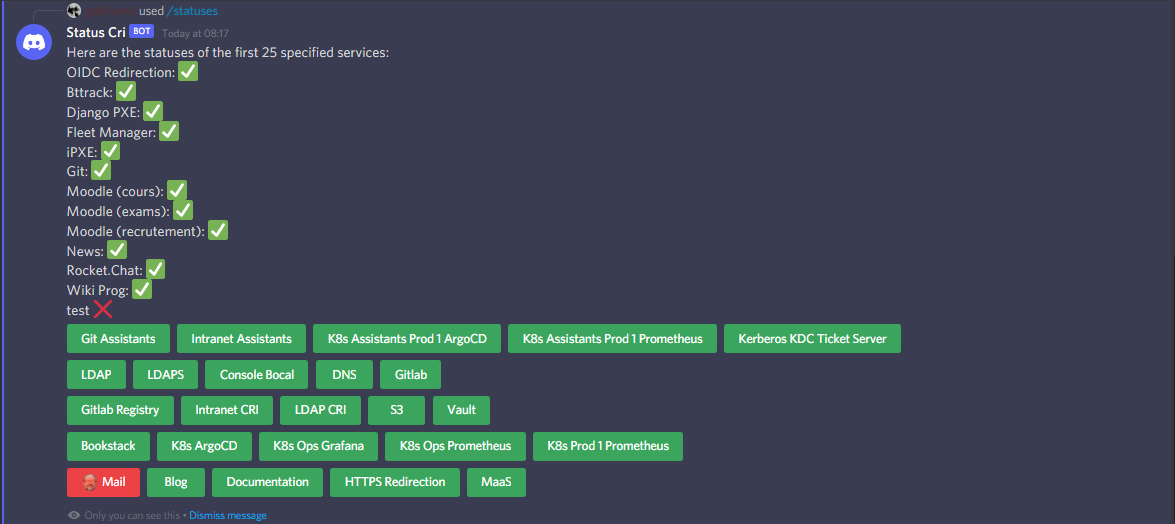
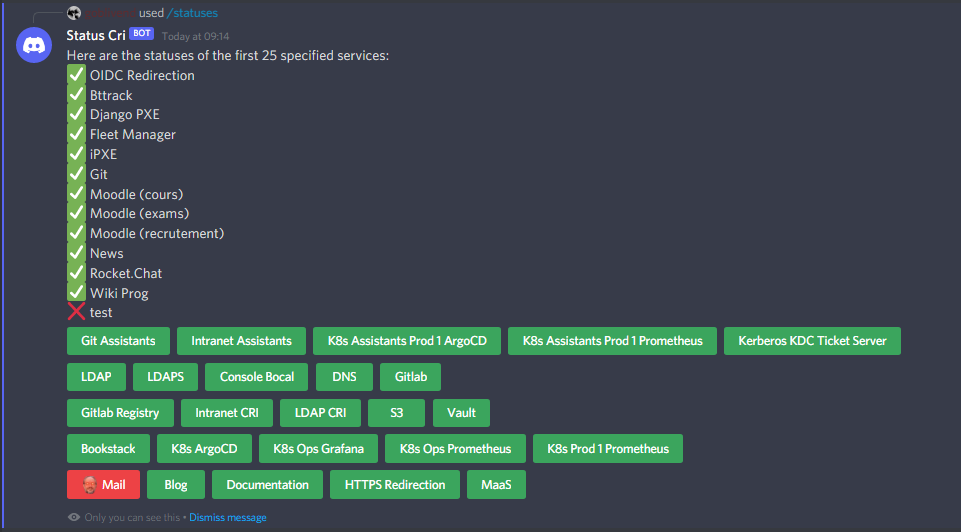
Update help and Readme

Changed region(s): [[0.0, 0.0, 0.9365, 1.0], [0.999, 0.4885, 1.0, 1.0]]

diff --git a/commands/help.js b/commands/help.js
@@ -4,25 +4,28 @@ const commandFiles = fs.readdirSync('./commands').filter(file => file.endsWith('
 
 module.exports = {
     name: "help",
-    description: "Replies with help",
+    description: "Shows this help message",
     execute(interaction, args, test) {
-        let embed = new MessageEmbed();
-        embed.setColor('#0099ff');
+        let embeds = [];
+
 
 
         commandFiles.sort((a, b) => a.name < b.name);
-
-        let command_list = [];
         console.log(commandFiles)
         for (let commandName of commandFiles) {
             command = require(`./${commandName}`);
-            command_list.push(`\`${command.name}\` - ${command.description}`);
+
+            embeds.push(new MessageEmbed()
+                .setColor('#0099ff')
+                .addField('Command : ' + command.name, command.description)
+                .setImage(command.image)
+            )
         }
-        embed.addField('Commands', command_list.join('\n'));
+
         // embed.setFooter('Use `help <command>` to get more information about a command');
 
         interaction.reply({
-            embeds: [embed],
+            embeds: embeds,
             ephemeral: true, // Only the author will see this message
         });
     }

diff --git a/commands/statuses.js b/commands/statuses.js
@@ -70,7 +70,7 @@ module.exports = {
                         button.setEmoji('717700063429656587')
                     rows[rows.length - 1].addComponents(button);
                 } else {
-                    mycontent += `${DEVOUPS_SERVICES_NAME[DEVOUPS_SERVICES_CODE.indexOf(service)]}: ${status ? '✅' : '❌'}\n`
+                    mycontent += `${status ? '✅' : '❌'} ${DEVOUPS_SERVICES_NAME[DEVOUPS_SERVICES_CODE.indexOf(service)]}\n`
                 }
             }
             if (test) {
@@ -86,7 +86,7 @@ module.exports = {
                         .setEmoji('717700063429656587')
                     )
                 }
-                mycontent += 'test :x:\n'
+                mycontent += '❌ test\n'
                 //console.log("\n\nMy additionnal content is :" + mycontent + '\n\n');
             }
             interaction.editReply({

diff --git a/commands/add.js b/commands/add.js
@@ -4,6 +4,7 @@ const { Permissions } = require('discord.js');
 module.exports = {
     name: "add",
     description: "Adds a service channel to update",
+    image: "https://github.com/goblivend/StatusCri/tree/main/README%20Content/Main%20feature.png",
     async execute(interaction, args, test) {
         await interaction.deferReply({
             content: "Awaiting response from Devoups...",

diff --git a/README.md b/README.md
@@ -6,7 +6,7 @@ This discord bot mainly creates 5 new slash commands to watch in real time the s
 
 ## Add, Remove, Clear
 
-The main feature of this bot is to create a category in which it will displa channels to inform on the status of the desired services and will be updated every 5 minutes.
+The main feature of this bot is to create a category in which it will displa channels to inform on the status of the desired services and will be updated every 5 minutes. The different commands here are only available to users having a role named either `Modo` or `Devoups Admin`.
 
 <p align="center">
     <img src="./README%20Content/Main%20feature.png?raw=true" alt="Real time updating statuses">
@@ -23,10 +23,55 @@ As we can see we have different visuals.
 To choose the different services simply use the ``/add`` command.
 It will sort the different services using the different groups you can see on [Devoups](https://devoups.online).
 
+### Add
+
 ```js
 /add assistants-services: All
 ```
 
-add/remove/clear/statuses/help
+This will add all the services from the `assistant-services` group like shown on the figure above. </br>
+The first time you will try to add, you might have to add twice, since the first time it will just create the category in which the channels will be moved
 
-![test](./README%20Content/Direct%20statuses.png?raw=true "Direct statuses")
+### Remove
+
+```js
+/remove assistants-services: All
+```
+
+The remove command works like the add command, but does the opposit, this one will remove the specified channels.
+
+### Clear
+
+```js
+/clear
+```
+
+This command will remove all the channels included in the category, an easier way to remove all the channels without having to add all groups and all services.
+
+## Statuses
+
+```js
+/statuses assistants-services: All
+```
+
+This command will reply to the user the status of the specified services
+
+<p align="center">
+    <img src="./README%20Content/Direct%20statuses%20assistant-services.png?raw=true" alt="Real time updating statuses">
+    </br>
+    <caption>Direct status of Assistant Services group</caption>
+</p>
+Here I added a test one to show how the offline services will be shown on this interface.
+
+When you add more than 25 services, it will be impossible to show them all this way so the first 25 will be shown like that and the rest of them will simpy be shown in message :
+
+<p align="center">
+    <img src="./README%20Content/Direct%20statuses.png?raw=true" alt="Real time updating statuses">
+    </br>
+    <caption>Direct status</caption>
+</p>
+
+## Help
+
+As Guessed, the help command will display an help message using
+add/remove/clear/statuses/help
